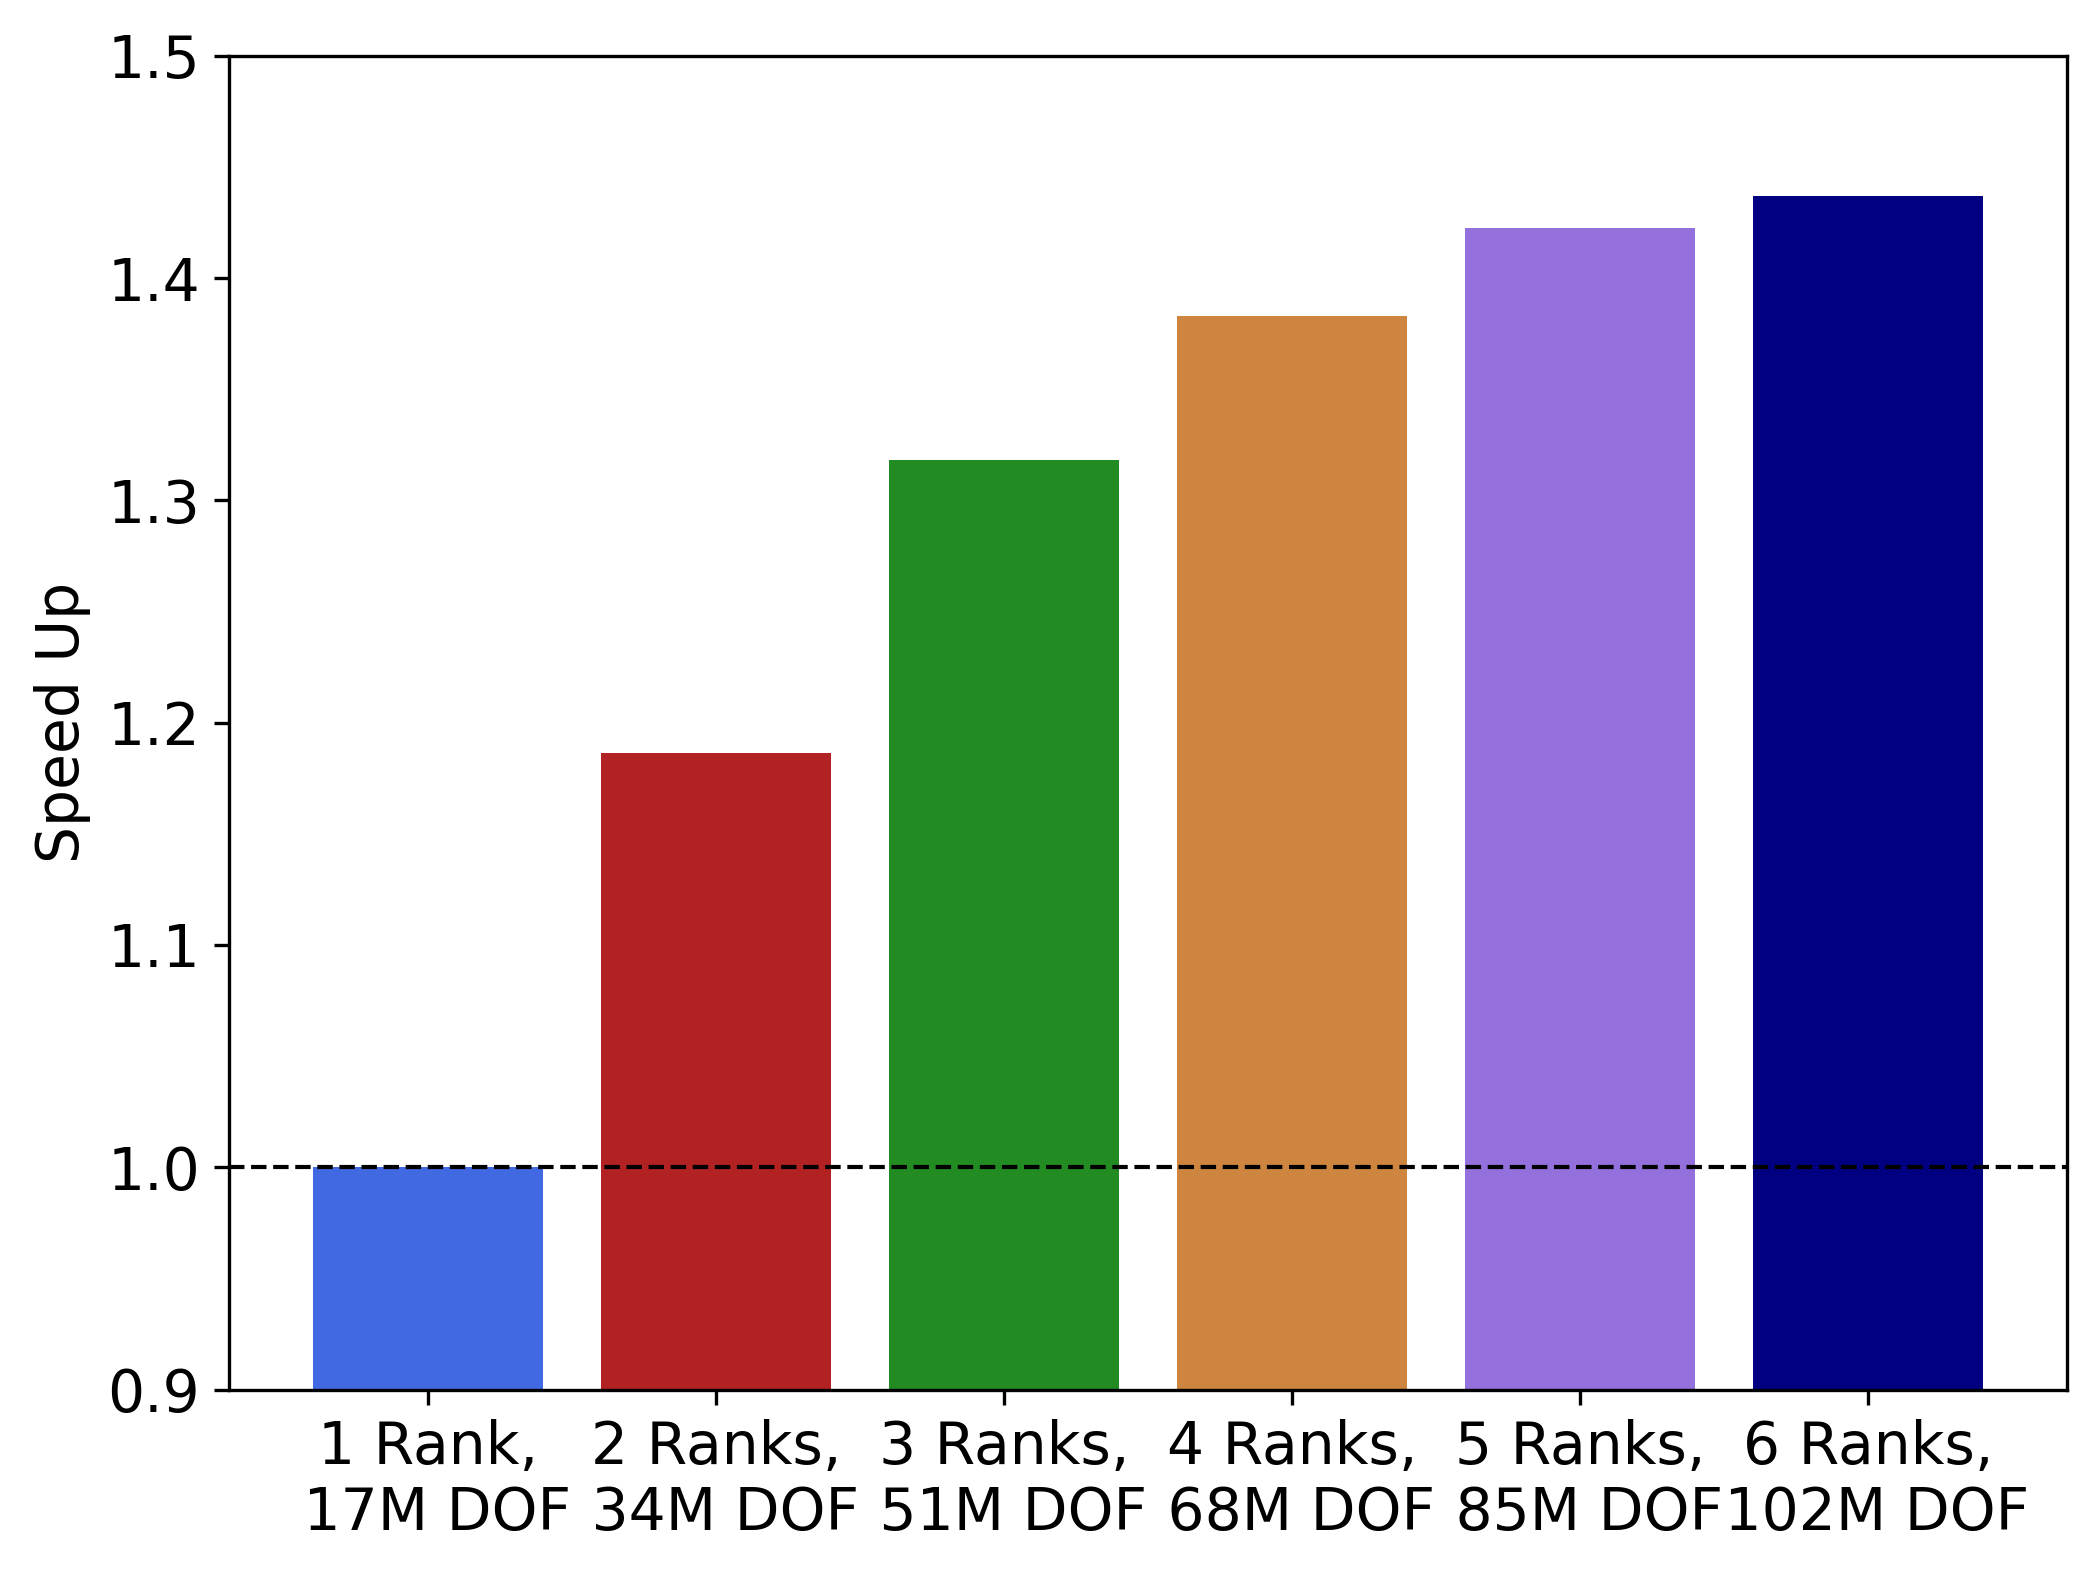
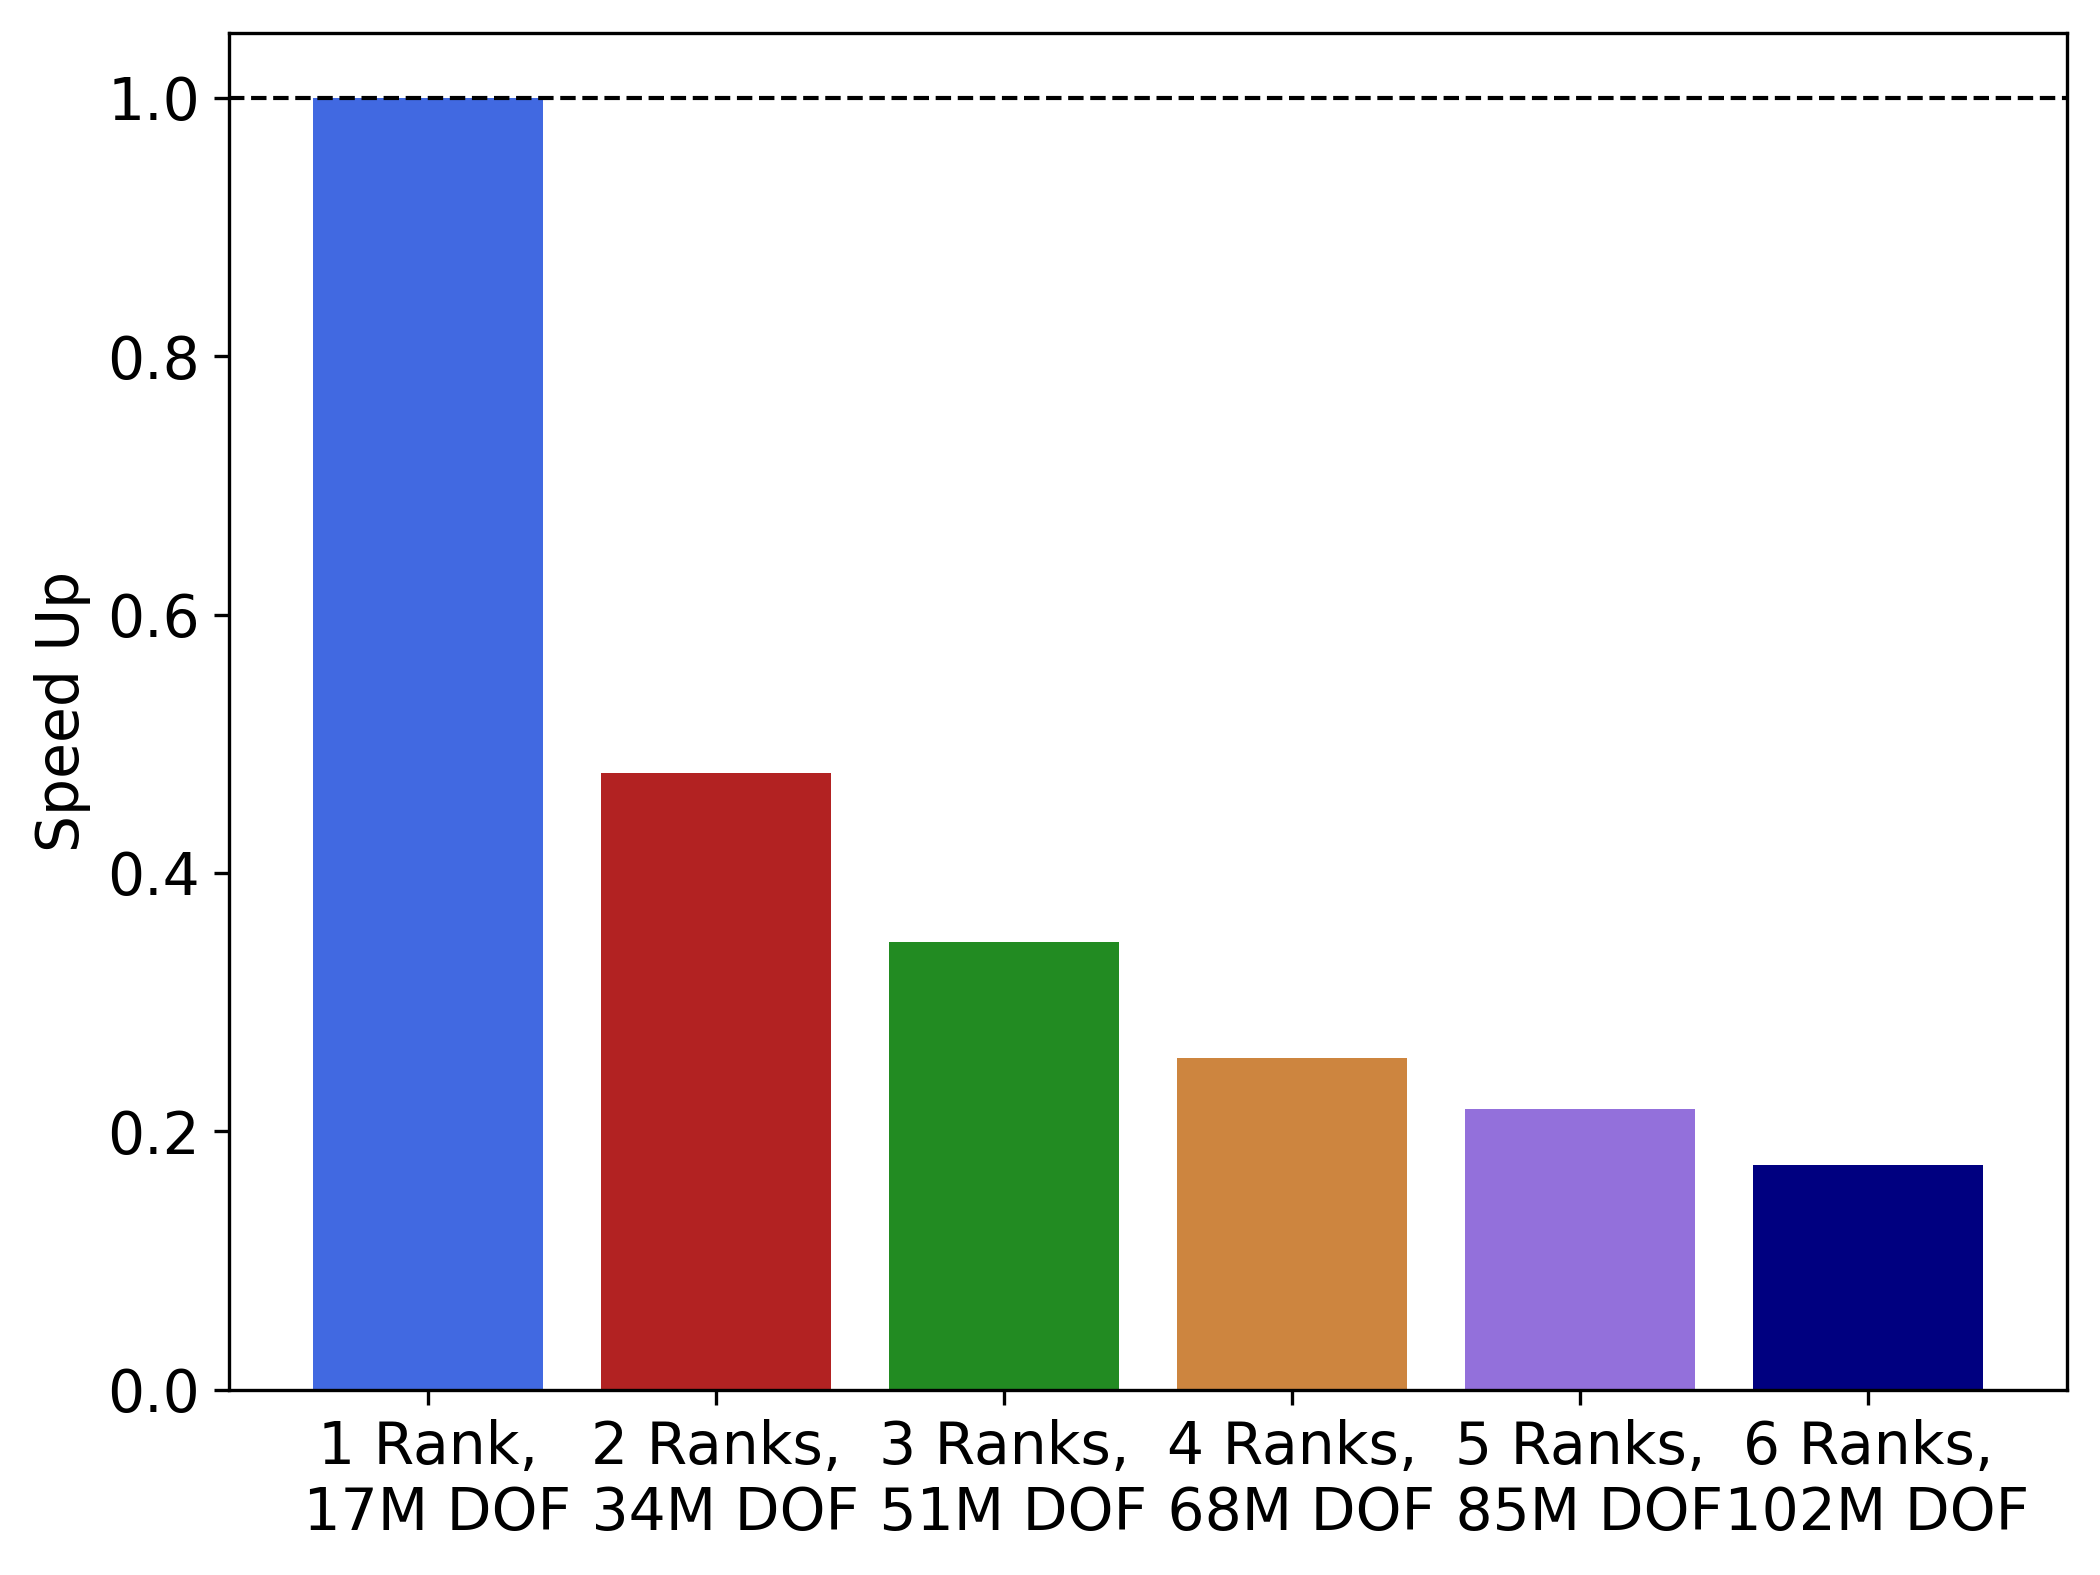
Fix to weak scaling plot.

diff --git a/Plots/Plots.py b/Plots/Plots.py
@@ -20,7 +20,8 @@ SpeedUp5 = [Times5[0]/Times5[i] for i in range(1,len(Times5))] # Corresponds to 
 SpeedUp6 = [Times6[0]/Times6[i] for i in range(1,len(Times6))] # Corresponds to DOF[5]
 
 # Weak scaling speedup for MPI VTKWriter
-WeakScalingSpeedUp = [Times1[0]/Times1[0], SpeedUp2[0], SpeedUp3[1], SpeedUp4[2], SpeedUp5[3], SpeedUp6[4]]
+WeakScalingSpeedUp = [Times1[0]/Times1[0], Times1[0]/Times2[0], Times1[0]/Times3[0], 
+                      Times1[0]/Times4[0], Times1[0]/Times5[0], Times1[0]/Times6[0]]
 Description = ["1 Rank,\n 17M DOF", "2 Ranks,\n 34M DOF", "3 Ranks,\n 51M DOF", 
                 "4 Ranks,\n 68M DOF", "5 Ranks,\n 85M DOF", "6 Ranks,\n 102M DOF"]
 Colors = ["royalblue", "firebrick", "forestgreen", "peru", "mediumpurple", "navy"]
@@ -93,7 +94,7 @@ plt.close(fig2)
 
 fig3 = plt.figure(figsize=[7,5.25])
 plt.bar(Description, WeakScalingSpeedUp, color=Colors)
-plt.ylim([0.9, 1.5])
+plt.ylim([0., 1.05])
 plt.yticks(fontsize=14)
 plt.ylabel("Speed Up", fontsize=14)
 plt.xticks(fontsize=14)
